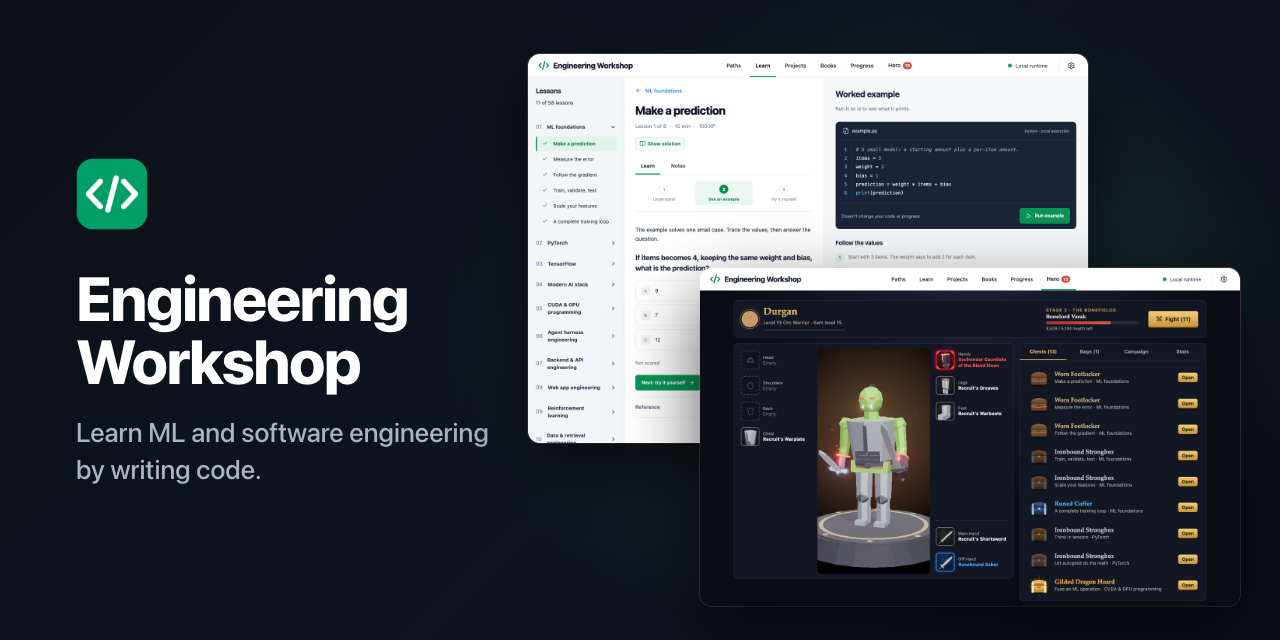
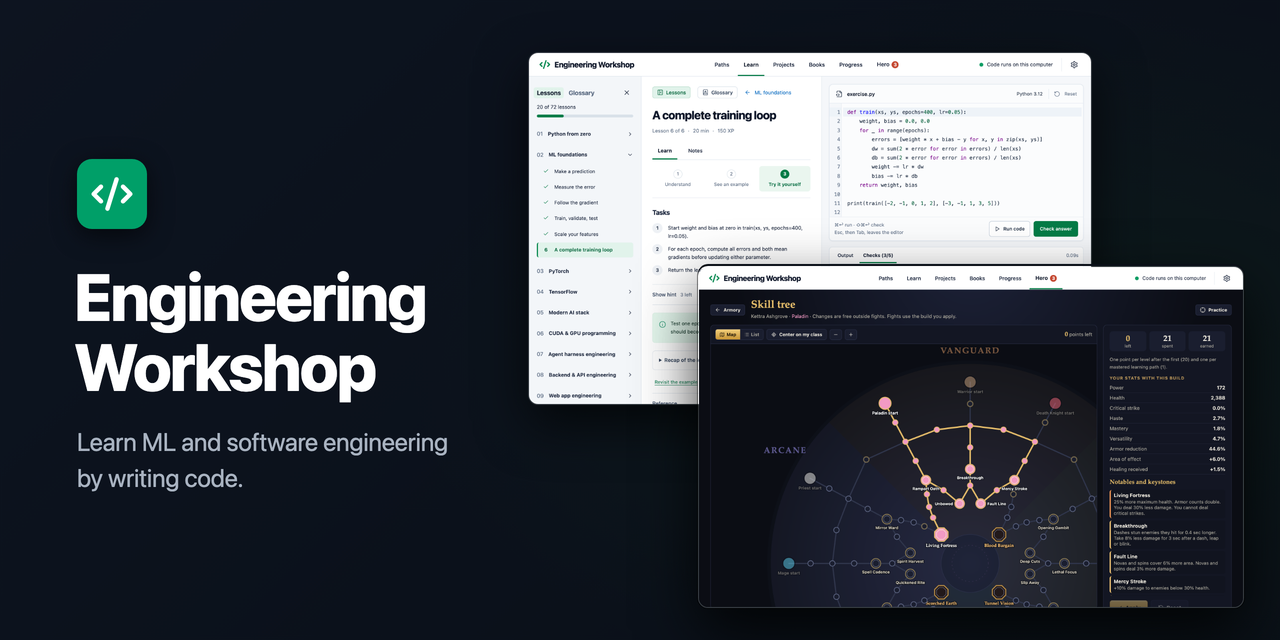
Retake the README screenshots and social preview for 1.2.0
The lesson screenshot now shows the Try it yourself stage with failed
checks that list the call, the expected value and the returned value. The
Hero screenshot shows the skill tree. The social preview uses both. All
three come from a disposable data folder with test progress.

diff --git a/README.md b/README.md
@@ -6,7 +6,7 @@
 
 Engineering Workshop is an app for learning machine learning and software engineering by writing code. It has 72 short lessons in 13 paths, from Python and ML basics, PyTorch, TensorFlow and CUDA to agent harnesses, backends and web apps. Each lesson explains one idea, shows a small example, and then runs checks on your own code. If you have never written code, start with Python from zero. It teaches the Python that the other paths use, from the first line of a program. Everything runs on your computer and works offline after the install, without an account, an API key or a GPU. It is free and open source under the MIT license.
 
-![A lesson in the See an example stage: a worked example, its output and a prediction question](docs/guided-lesson-screenshot.jpg)
+![A lesson in the Try it yourself stage: the tasks, the code editor, and failed checks that show the call, the expected value and the value the code returned](docs/guided-lesson-screenshot.jpg)
 
 ## Install
 
@@ -75,7 +75,7 @@ Finished work earns rewards in a small fantasy game next to the lessons. The gam
 - **Battles.** Each of these chests also earns one fight in a top-down arena. Click to move and attack, and press Q, W, E and R to use your class's abilities. Each stage ends with a boss, and beating it earns a chest. A new hero usually loses at first. The damage you deal to a boss carries over between fights, and better gear makes your hero stronger. The **Auto** button plays the fight for you.
 - **Skill tree.** Each level after the first and each mastered learning path gives one passive point, 72 with the whole curriculum. **Skill tree** opens a 120-node tree around your class. Small nodes add stats, notables change how abilities work, and four keystones on the borders between sectors trade one strength for another. Changes are free outside fights: edit a draft, then press **Apply**. **Practice** opens an arena with a training dummy and optional waves. It uses no battles and saves nothing, so you can try a build before a real fight.
 
-![The Hero armory: a 3D hero with equipped gear, and a list of chests earned from lessons](docs/hero-screenshot.jpg)
+![The Hero skill tree: a 21-point Paladin build with five notables and a keystone, and the stats that it gives](docs/hero-screenshot.jpg)
 
 The game uses three.js and needs WebGL. Its data is in the same local database as your progress, and progress exports include it.
 
